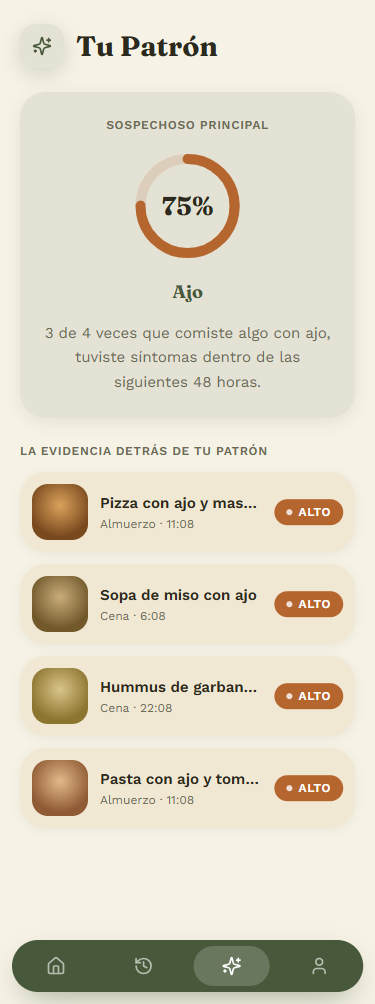
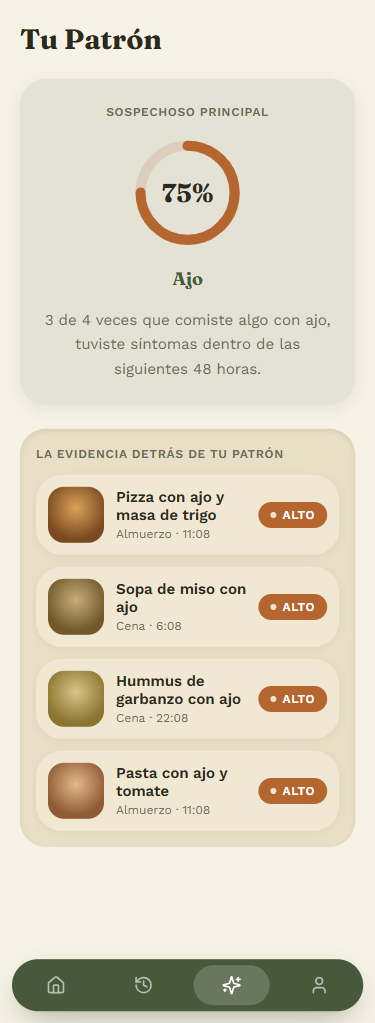
Corregir 5 defectos de la 1ra revision de Tu Patron
Header unificado con Historial/Cuenta (se quita el chip-icono que solo
tenia esta pantalla). Se agrega stagger real a las tarjetas de evidencia
(antes solo el contenedor padre animaba). El empty-state "Todavia estamos
aprendiendo" suma un CTA a /hoy para registrar una comida, igual que hace
el de Hoy. La seccion de evidencia gana el nivel "hundido" de profundidad
que le faltaba (sombra interior, igual que en Hoy). FilaComida (componente
compartido) pasa de truncar a una linea a line-clamp-2, para que los
titulos largos no se corten a media palabra en ninguna pantalla que lo usa.

diff --git a/app/(app)/patron/page.tsx b/app/(app)/patron/page.tsx
@@ -5,6 +5,7 @@
 // dato héroe + gráfico de apoyo + insight interpretado, nunca solo el número).
 
 import { useEffect, useState } from 'react';
+import { useRouter } from 'next/navigation';
 import { motion, useReducedMotion } from 'motion/react';
 import { Sparkles } from 'lucide-react';
 import {
@@ -39,6 +40,7 @@ export default function PatronPage() {
   const [correlacion, setCorrelacion] = useState<Correlacion | null | undefined>(undefined);
   const [detalle, setDetalle] = useState<Comida | null>(null);
   const reduce = useReducedMotion();
+  const router = useRouter();
 
   function recargar() {
     const cs = getComidas();
@@ -69,12 +71,7 @@ export default function PatronPage() {
 
   return (
     <div className="flex flex-1 flex-col gap-6 px-5 pb-28 pt-6">
-      <div className="flex items-center gap-3">
-        <span className="flex size-11 items-center justify-center rounded-[var(--radius-button)] bg-[var(--chip-bg)] shadow-[0_6px_20px_color-mix(in_oklab,var(--accent)_20%,transparent)]">
-          <Sparkles size={20} className="text-[var(--accent)]" aria-hidden="true" />
-        </span>
-        <h1 className="text-[28px] font-bold leading-[1.1] [font-family:var(--font-display)]">Tu Patrón</h1>
-      </div>
+      <h1 className="text-[28px] font-bold leading-[1.1] [font-family:var(--font-display)]">Tu Patrón</h1>
 
       {correlacion ? (
         <>
@@ -110,11 +107,18 @@ export default function PatronPage() {
             </p>
           </motion.div>
 
-          <div>
+          <div className="rounded-[var(--radius-card)] bg-[var(--surface-2)] p-4 shadow-[inset_0_2px_6px_color-mix(in_oklab,var(--text-primary)_10%,transparent)]">
             <p className="mb-3 text-[12px] font-semibold uppercase tracking-[0.06em] text-[var(--text-tertiary)]">La evidencia detrás de tu patrón</p>
             <div className="flex flex-col gap-3">
-              {comidasRelacionadas.map((c) => (
-                <FilaComida key={c.id} comida={c} onClick={setDetalle} />
+              {comidasRelacionadas.map((c, i) => (
+                <motion.div
+                  key={c.id}
+                  initial={{ opacity: reduce ? 1 : 0, y: reduce ? 0 : 10 }}
+                  animate={{ opacity: 1, y: 0 }}
+                  transition={{ duration: reduce ? 0 : 0.25, delay: reduce ? 0 : i * 0.06 }}
+                >
+                  <FilaComida comida={c} onClick={setDetalle} />
+                </motion.div>
               ))}
             </div>
           </div>
@@ -132,6 +136,13 @@ export default function PatronPage() {
           <p className="max-w-[32ch] text-[15px] text-[var(--text-secondary)]">
             Sigue registrando tus comidas y síntomas — necesitamos ver el mismo ingrediente repetirse junto a un síntoma para aislar tu detonante real.
           </p>
+          <button
+            type="button"
+            onClick={() => router.push('/hoy')}
+            className="mt-2 text-[15px] font-semibold text-[var(--accent)] underline underline-offset-2"
+          >
+            Registrar una comida
+          </button>
         </motion.div>
       )}
 

diff --git a/components/app/fila-comida.tsx b/components/app/fila-comida.tsx
@@ -15,7 +15,7 @@ export function FilaComida({ comida, onClick }: { comida: Comida; onClick?: (com
     <>
       <FotoComida colores={comida.colorFoto} className="size-14 shrink-0 rounded-[var(--radius-button)]" />
       <div className="min-w-0 flex-1">
-        <p className="truncate text-[15px] font-semibold text-[var(--text-primary)]">{comida.descripcion}</p>
+        <p className="line-clamp-2 text-[15px] font-semibold leading-tight text-[var(--text-primary)]">{comida.descripcion}</p>
         <p className="text-[12px] text-[var(--text-secondary)]">
           {comida.nombreComida} · {formatearHora(comida.registradoEn)}
         </p>

diff --git a/docs/revisiones/patron-veredicto.md b/docs/revisiones/patron-veredicto.md
@@ -1,0 +1,14 @@
+# VEREDICTO revisor-visual — Tu Patrón
+Fecha: 2026-09-26 00:00
+Screenshot: docs/revisiones/patron-375.png
+Usabilidad: 28/40
+Craft: 12/20
+Copy (si vende): N-A
+Fidelidad (si hubo referencia): N-A
+Veredicto: NO LISTA
+Top defectos:
+1. [Header, junto al título "Tu Patrón"] Es la ÚNICA pantalla de la app con un chip-ícono (44px, fondo chip-bg, Sparkles) junto al `<h1>` — "Tu historial" y "Tu cuenta" usan solo el `<h1>` plano, sin chip. → Quitar el chip aquí (igualar a las otras) o agregarlo en todas las cabeceras de tab para que el componente de header sea uno solo.
+2. [Lista "La evidencia detrás de tu patrón", las 4 tarjetas] El `.map()` de `comidasRelacionadas` renderiza `FilaComida` dentro de un `<div>` estático sin stagger — solo el contenedor padre tiene un único fade-in, no hay entrada escalonada por tarjeta (baseline de movimiento #1, obligatoria en toda pantalla nueva). → Envolver cada `FilaComida` en `motion.div` con `transition={{ delay: i * 0.06 }}`.
+3. [Estado "Todavía estamos aprendiendo" — rama `else` de `page.tsx`, no visible en el screenshot actual pero sí en código] Tiene ilustración + copy que enseña, pero CERO acción: no hay botón para ir a registrar comida/síntoma, a diferencia del empty state de "Hoy" que sí trae CTA ("Escanear tu primera comida del día"). → Agregar un botón "Registrar una comida" que navegue a Hoy o abra el sheet de nueva comida.
+4. [Toda la pantalla] Solo existen 2 niveles de profundidad (fondo base crema + card elevada `chip-bg`/`surface`); no hay ninguna superficie "hundida" (inset), a diferencia de "Hoy" que sí usa `shadow-[inset_...]` en su sección de comidas del día. → Agregar un contenedor hundido (p. ej. envolver la lista de evidencia en una superficie con sombra inset) para completar el sistema de 3 niveles.
+5. [Tarjetas de evidencia, columna de texto] Los títulos truncan a mitad de palabra de forma extraña: "Pizza con ajo y mas...", "Hummus de garban...", "Pasta con ajo y tom..." — se ve cortado/roto justo en la sección que debe generar más confianza (la evidencia del hallazgo). → Ajustar el ancho de la columna de texto o usar `line-clamp-2` en vez de `truncate` de una sola línea para que el corte sea menos abrupto.
